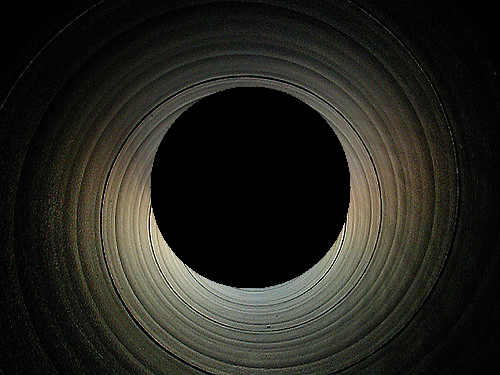
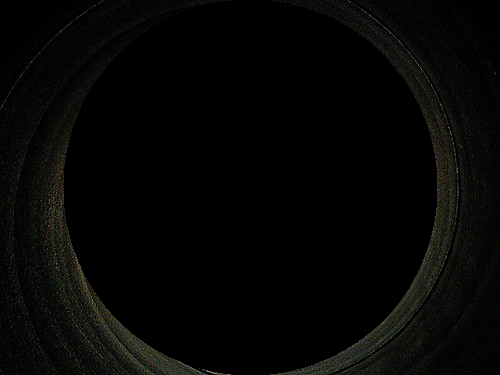
Building inner texture

diff --git a/Assets/Scripts/TextureExtractor.cs b/Assets/Scripts/TextureExtractor.cs
@@ -5,12 +5,15 @@ using System.IO;
 public class TextureExtractor : MonoBehaviour {
 
     private byte[] fileData;
+    public int innerRadio = 100;
 
     void Start () {
         fileData = File.ReadAllBytes(Application.dataPath + "/Textures/testTube.jpg");
         Texture2D tex = new Texture2D(2, 2);
         tex.LoadImage(fileData);
-        DrawCircle(tex, (int)tex.width/2, (int)tex.height/2, 100, new Color(0, 0, 0));
+        DrawCircle(tex, (int)tex.width/2, (int)tex.height/2, innerRadio, new Color(0, 0, 0));
+
+        //Debug.Log(tex.GetPixel((int)tex.width / 2, 0));
 
         // Encode texture into PNG
         byte[] bytes = tex.EncodeToPNG();
@@ -26,7 +29,11 @@ public class TextureExtractor : MonoBehaviour {
 	
 	}
 
-    public void DrawCircle(Texture2D tex, int cx, int cy, int r, Color col)
+    private void BuildTubeTexture() {
+
+    }
+
+    private void DrawCircle(Texture2D tex, int cx, int cy, int r, Color col)
     {
         int x, y, px, nx, py, ny, d;
         Color32[] tempArray = tex.GetPixels32();
